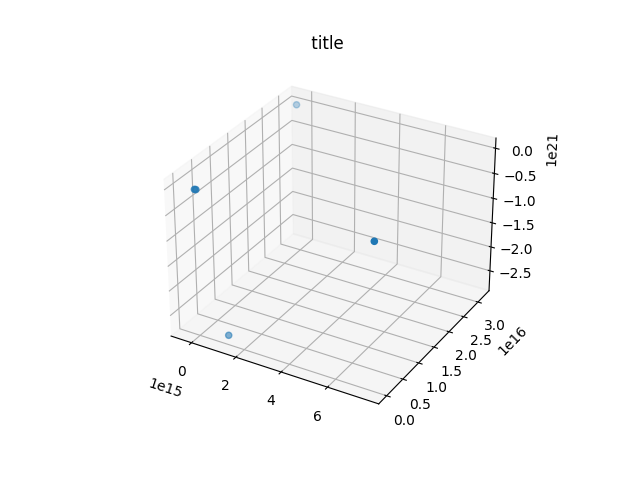
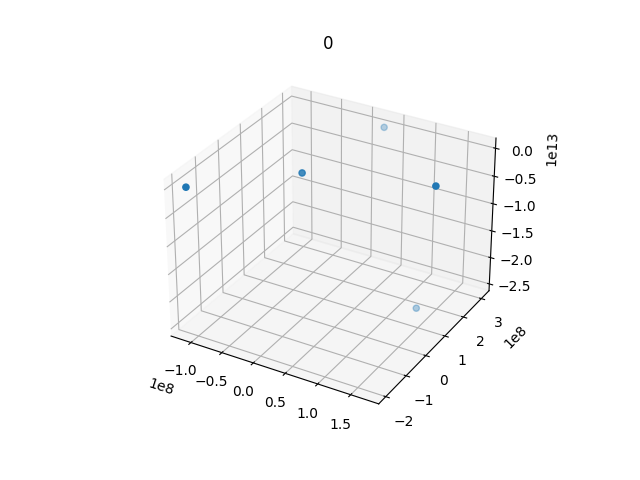
thursday push

diff --git a/mini_project/Direct approach/Python_2_non_oo/non_oop_2.py b/mini_project/Direct approach/Python_2_non_oo/non_oop_2.py
@@ -5,12 +5,12 @@ from matplotlib import animation
 
 def run(timestep, iterations):
     #Constants
-    G_CONST = 6.67430E-11
+    G_CONST = 6.67430E-20
 
     #Load initial system
     path = r"C:\Users\Student\OneDrive\Bristol University\Physics Year 4\Advanced Computational Physics\Advance-Computional-Physics-local-machine-1\mini_project\Direct approach\Python_2_non_oo\system.csv"
     initial_system = np.loadtxt(path, skiprows=2, delimiter=',', dtype=np.float64)
-    print(initial_system)
+    # print(initial_system)
     global total_bodies
     total_bodies = len(initial_system)
 
@@ -20,18 +20,15 @@ def run(timestep, iterations):
     nbody_system_w_time = np.zeros(iterations+1, dtype=object)
     nbody_system_w_time[0] = initial_system
 
-    
-
-    for j in range(iterations):
+    for count_k in range(1, iterations):
         count_j = 0
-        count_k = 1
         a_to_update = np.zeros(total_bodies, dtype=object)
         for body1 in nbody_system:
             count = 0
             a_array = np.zeros(((total_bodies-1), 3))  
             for body2 in nbody_system:
                 if (body1[0] != body2[0]):
-                    print("\nbody1 %s , body2 %s" % (body1, body2))
+                    # print("\nbody1 %s , body2 %s" % (body1, body2))
                     r1 = np.array([body1[2], body1[3], body1[4]])
                     r2 = np.array([body2[2], body2[3], body2[4]])
                     r_diff = np.subtract(r1, r2)
@@ -44,53 +41,88 @@ def run(timestep, iterations):
             a_to_update[count_j] = acceleration
             count_j += 1
 
-        print(a_to_update)
-        print("nbody_system \n", nbody_system)
+        print("a_to_update ", a_to_update)
+        # print("nbody_system \n", nbody_system)
         for body1, i, accel in zip(nbody_system, range(total_bodies), a_to_update):
-            new_x = body1[2] + (body1[5] + accel[0]*timestep) * timestep    #new_x = odd_x + (velocity + accel*time)*time
-            new_y = body1[3] + (body1[6] + accel[1]*timestep) * timestep
-            new_z = body1[4] + (body1[7] + accel[2]*timestep) * timestep
- 
+            new_vx = body1[5] + accel[0]*timestep
+            new_vy = body1[6] + accel[1]*timestep
+            new_vz = body1[7] + accel[2]*timestep
+            
+            new_x = body1[2] + (new_vx * timestep)    #new_x = odd_x + (velocity + accel*time)*time
+            new_y = body1[3] + (new_vy * timestep)
+            new_z = body1[4] + (new_vz * timestep)
+
             nbody_system[i, 2] = new_x
             nbody_system[i, 3] = new_y
             nbody_system[i, 4] = new_z
+
+            nbody_system[i, 5] = new_vx
+            nbody_system[i, 6] = new_vy
+            nbody_system[i, 7] = new_vz
+
         nbody_system_w_time[count_k] = nbody_system
-        count_k += 1
-        print("i ", j)
-        print("\n nbody_system_w_time ", nbody_system_w_time)
-        print("\n \n \n")
+        # print("count_k ", count_k)
+        # print("\n nbody_system_w_time ", nbody_system_w_time)
+        # print("\n \n \n")
         
 
-timestep = 86400 
+timestep = 86400
 iterations = 10
 run(timestep, iterations)
 
-def animate(i):
-    ax.clear()
-    system_t = nbody_system_w_time[i]
-    print(system_t, )
-    # graph.set_array = (system_t[:, 2] , system_t[:, 3], system_t[:, 4])
-    title.set_text('Time={} s'.format(i*timestep))
-    ax.scatter(system_t[:, 2] , system_t[:, 3], system_t[:, 4])
+# # def animate(i):
+# #     ax.clear()
+# #     system_t = nbody_system_w_time[i]
+# #     # print(system_t)
+# #     # graph.set_array = (system_t[:, 2] , system_t[:, 3], system_t[:, 4])
+# #     ax.title('Time={} s'.format(i*timestep))
+# #     ax.set_data(system_t[:, 2] , system_t[:, 3], system_t[:, 4])
 
-savepath = r"C:\Users\Student\OneDrive\Bristol University\Physics Year 4\Advanced Computational Physics\Advance-Computional-Physics-local-machine-1\mini_project\Direct approach\Python_2_non_oo\run"
-print(nbody_system_w_time[3])
+# def animate(i):
+#     for k in range(total_bodies):
+#         stars[k].set_data(stars[k][:,0][i], stars[k][:,1][i])
+#         stars[k].set_3d_properties(stars[k][:,2][i])
 
-# for i in range(len(nbody_system_w_time)):
-#     fig = plt.figure()
-#     ax = fig.add_subplot(111, projection='3d')
-#     title = ax.set_title(' title ')
-#     # ax.set_xlim((-5E9, 5E9))
-#     # ax.set_ylim((-5E9, 5E9))
-#     # ax.set_zlim((-5E9, 5E9))
+#         trajectories[k].set_data(stars[k][:,0][:i+1],stars[k][:,1][:i+1])   
+#         trajectories[k].set_3d_properties(stars[k][:,2][:i+1])
+#     return np.concatenate([stars, trajectories])
+
+# fig = plt.figure()
+# ax = fig.add_subplot(projection = '3d')
+# # ax.set_xlim((-5E25, 5E25))
+# # ax.set_ylim((-5E25, 5E25))
+# # ax.set_zlim((-5E25, 5E25))
+
+# stars = np.array([plt.plot([],[],[]) for k in range(total_bodies)])
+# trajectories = np.array([plt.plot([],[], [])[0] for k in range(total_bodies)])
 
 
-#     system_t = nbody_system_w_time[i]
-#     ax.scatter(system_t[:, 2] , system_t[:, 3], system_t[:, 4])
-#     save = "%s\%s.png" % (savepath, i)
-#     plt.savefig(save)
-# # frames_t = iterations-2
-# # ani = animation.FuncAnimation(fig, animate, 
-# #                                interval=200, frames=frames_t, blit=False)
+
+# frames_t = iterations-1
+# system_t = nbody_system_w_time[0]
+# ax.scatter(system_t[:, 2] , system_t[:, 3], system_t[:, 4])
+# ani = animation.FuncAnimation(fig, animate, interval=200, frames=frames_t, blit=False)
 
 # plt.show()
+print("\n nbody_system_w_time", nbody_system_w_time)
+system_t = nbody_system_w_time[2]
+print(system_t)
+print(system_t[0])
+print("\n")
+print(system_t[0, 1])
+
+savepath = r"C:\Users\Student\OneDrive\Bristol University\Physics Year 4\Advanced Computational Physics\Advance-Computional-Physics-local-machine-1\mini_project\Direct approach\Python_2_non_oo\run"
+for system_t, i in zip(nbody_system_w_time, range(len(nbody_system_w_time))):
+    fig = plt.figure()
+    ax = fig.add_subplot(111, projection='3d')
+    title = ax.set_title('{}'.format(i*timestep))
+    # ax.set_xlim((-5E9, 5E9))
+    # ax.set_ylim((-5E9, 5E9))
+    # ax.set_zlim((-5E9, 5E9))
+
+
+    system_t = nbody_system_w_time[i]
+    ax.scatter(system_t[:, 2] , system_t[:, 3], system_t[:, 4])
+    save = "%s\%s.png" % (savepath, i)
+    plt.savefig(save)
+    plt.close()
